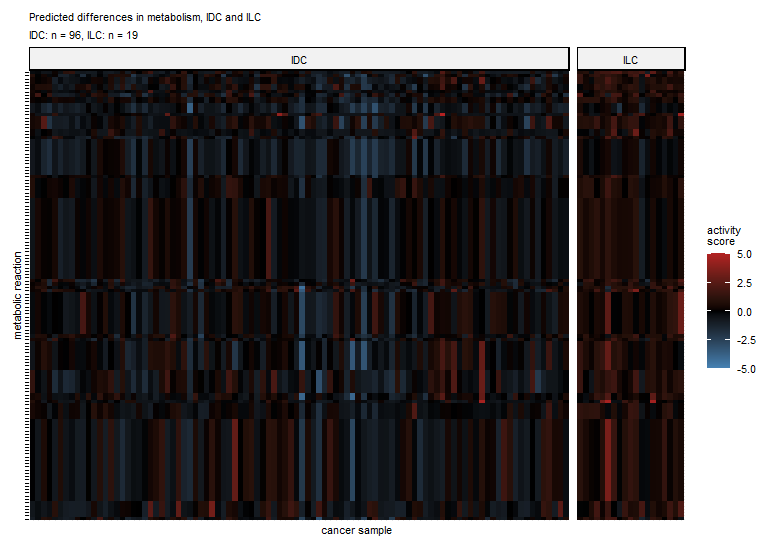
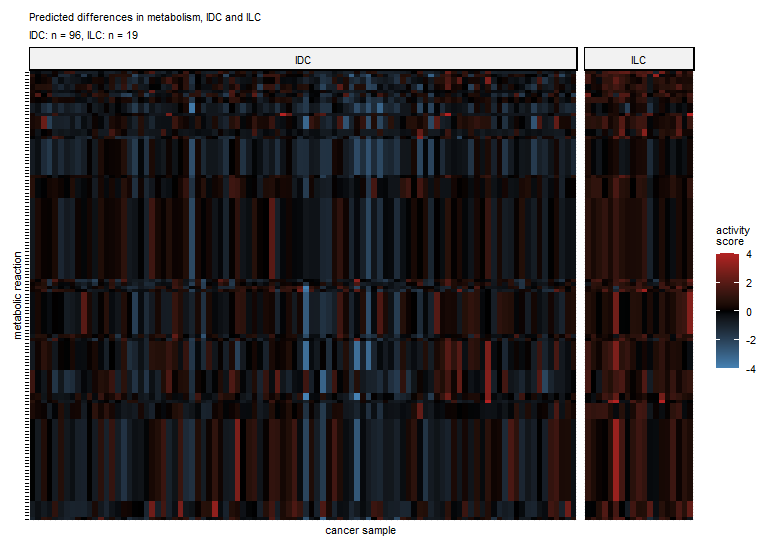
Second example of basic usage of the package

diff --git a/README.md b/README.md
@@ -560,6 +560,264 @@ per default indicated in the Y axis:
 
 ### Calculation of activity scores of metabolic reactions with gene expression data
 
+#### Analysis data
+
+In the second example, we'll use function `get_activity()` to compute activity scores of 
+metabolic reactions of the Recon 2.2. knowledge model given RNA sequencing data - 
+please note that they are not differential gene expression estimates handled in 
+the previous section! 
+
+In the example, we're going to use, apart from `biggrExtra` few other packages. 
+`tidyverse` package bundle will provide tools for transformation of tabular data, 
+[`microViz`](github.com/PiotrTymoszuk/microViz) provides the gene expression data 
+an plotting functions, [fastTest](https://github.com/PiotrTymoszuk/fastTest/) implements 
+statistical hypothesis tests, and [hgnc](https://github.com/patterninstitute/hgnc/) 
+will be use for conversion of gene symbols to Entrez identifiers (Entrez ID).
+
+```r
+
+  library(tidyverse)
+
+  library(microViz) ## data and plots
+  library(fastTest) ## statistical hypothesis tests
+  library(hgnc) ## gene symbol - Entrez ID conversion
+
+  library(biggrExtra)
+
+```
+
+The gene expression data comes as `brca` data set with `microViz` package. 
+Gene expression variables in this data frame are named with official gene symbols 
+which will be turned to Entrez IDs.
+The expression signals on an identity scale will be transformed with $log_2$ function 
+and subsequently converted to Z-scores (function `zScores` from `microViz` package) 
+used to calculate reactions' activities: 
+
+```r
+
+ ## annotation of gene symbols with Entrez IDs:
+  ## a data frame and a named vector used to convert
+  ## names of the gene expression data
+
+  hgnc_annotation <- import_hgnc_dataset() %>%
+    select(symbol, entrez_id) %>%
+    filter(complete.cases(.))
+
+  hgnc_entrez_vector <- set_names(hgnc_annotation$entrez_id,
+                                  hgnc_annotation$symbol)
+
+  ## selection of genes, re-naming with EntrezIDs,
+  ## log2 transformation of the expression data
+
+  brca_data <- brca_data %>%
+    column_to_rownames("sample_id") %>%
+    select(any_of(hgnc_annotation$symbol))
+
+  names(brca_data) <- hgnc_entrez_vector[names(brca_data)]
+
+  brca_data <-
+    log2(as.matrix(brca_data) + 1) %>%
+    as.data.frame
+
+  ## Z-scores used for calculation of the reaction activity scores
+
+  brca_z_scores <- zScores(brca_data)
+
+```
+
+```r
+
+> brca_z_scores[1:10, 1:5]
+                                                  1      503538      29974          2      144571
+MBC-MBCProject_GvHkH2Hk-Tumor-SM-AZ5HV   0.91776430  2.04386562 -0.3486670  0.2894184 -0.62886304
+MBC-MBCProject_N4srsKsr-Tumor-SM-CGMGK   1.01208902  0.38140127 -0.3486670  0.6438838  0.61464010
+MBC-MBCProject_N4srsKsr-Tumor-SM-CGLTK   0.85115081 -0.94149510 -0.1066801 -0.6819644  0.32245867
+MBC-MBCProject_4MF1FlFQ-Tumor-SM-CGM4M   0.48329068  1.27063624 -0.2537039 -1.2351579 -0.56352870
+MBC-MBCProject_4MF1FlFQ-Tumor-SM-AZ5CU   0.34291247 -0.70928909 -0.3324544  0.3481451 -0.83224107
+MBC-MBCProject_wAiri7fp-Tumor-SM-AZ5DH   0.20610103  0.07184055 -0.3324544  0.9246825 -0.46768283
+MBC-MBCProject_K7f6fdUz-Tumor-SM-AZ5MA   3.83486896  2.24056095  4.8715174  0.5529890 -0.49935079
+RP-1156_MBCProject_3vhkhAcY_T1_v2_Exome  0.53749425 -0.91744052 -0.3650410 -0.3722746 -0.97445372
+MBC-MBCProject_xBfJfri9-Tumor-SM-CGLAP  -0.08864884  1.15366347 -0.3324544 -1.1186011 -0.53129776
+MBC-MBCProject_xBfJfri9-Tumor-SM-CGLGZ   0.04991536 -0.70928909 -0.3650410  1.5080102 -0.02313201
+
+```
+For calculation of reaction activity scores we also need a database of gene - reaction 
+association rules as R language object. 
+We can generate it easily by calling `as_reactDB()` for the `Recon2_2D` data frame 
+delivered with our `biggrExtra` package. 
+The reaction database can be created by calling `as_reactDB()` for it: 
+
+```r 
+
+ recon2_2_db <- as_reactDB(Recon2_2D)
+
+```
+```r
+
+> recon2_2_db
+
+`reactDB` object with 7785 reactions and 4742 gene - reaction association rules
+
+# A tibble: 7,785 × 6
+   id                name                                                    subsystem         gene_association entrez_id exprs     
+ * <chr>             <chr>                                                   <chr>             <chr>            <list>    <named li>
+ 1 R_13DAMPPOX       1,3-Diaminopropane:oxygen oxidoreductase (deaminating)  beta-Alanine met… 314 or 8639 or … <chr [3]> <language>
+ 2 R_1a_24_25VITD2Hm 1-alpha-Vitamin D-24,25-hydroxylase (D2)                Vitamin D metabo… NA               <NULL>    <NULL>    
+ 3 R_1a_24_25VITD3Hm 1-alpha-Vitamin D-24,25-hydroxylase (D3)                Vitamin D metabo… NA               <NULL>    <NULL>    
+ 4 R_1a_25VITD2Hm    1-alpha,24R,25-Vitamin D-hydroxylase (D2)               Vitamin D metabo… NA               <NULL>    <NULL>    
+ 5 R_1a_25VITD3Hm    1-alpha,24R,25-Vitamin D-hydroxylase (D3)               Vitamin D metabo… NA               <NULL>    <NULL>    
+ 6 R_1PPDCRp         delta1-piperideine-2-carboxylate reductase, perixosomal Lysine metabolism NA               <NULL>    <NULL>    
+ 7 R_24_25VITD2Hm    24R-Vitamin D-25-hydroxylase (D2)                       Vitamin D metabo… 1591             <chr [1]> <sym>     
+ 8 R_24_25VITD3Hm    24R-Vitamin D-25-hydroxylase (D3)                       Vitamin D metabo… 1591             <chr [1]> <sym>     
+ 9 R_25VITD2Hm       1-alpha-Vitamin D-25-hydroxylase (D2)                   Vitamin D metabo… 1594             <chr [1]> <sym>     
+10 R_25VITD3Hm       1-alpha-Vitamin D-25-hydroxylase (D3)                   Vitamin D metabo… 1594             <chr [1]> <sym>     
+# ℹ 7,775 more rows
+# ℹ Use `print(n = ...)` to see more rows
+
+```
+
+#### Calculation of reaction activity scores
+
+Scores of activity of reactions are obtained with `get_activity()` which we provide with 
+expression Z-scores (data frame: samples in rows, genes in columns) 
+and the reaction database object. 
+If `as_data_frame = TRUE`, the function returns a data frame, whose first column 
+named `sample_id` stores sample identifiers, the remaining columns are named after 
+reaction identifiers and are filled with activity scores: 
+
+```r
+
+  brca_activity_scores <-
+    get_activity(x = brca_z_scores,
+                 database = recon2_2_db,
+                 as_data_frame = TRUE)
+
+  reaction_variables <- names(brca_activity_scores)[-1] ### to be used later in tests
+
+```
+
+Subsequently, we'll append the data frame of activity scores with information 
+on tumor histology used later in statistical hypothesis tests: 
+
+```r
+
+  ## appending the activity scores with clinical meta-data
+
+  brca_activity_scores <-
+    inner_join(brca[, c("sample_id",
+                        "histology")],
+               brca_activity_scores,
+               by = "sample_id")
+
+```
+
+```r
+
+> brca_activity_scores
+
+# A tibble: 157 × 4,744
+   sample_id  histology R_13DAMPPOX R_24_25VITD2Hm R_24_25VITD3Hm R_25VITD2Hm R_25VITD3Hm R_2AMACHYD R_2AMACSULT  R_2HBO R_2OXOADOXm
+   <chr>      <fct>           <dbl>          <dbl>          <dbl>       <dbl>       <dbl>      <dbl>       <dbl>   <dbl>       <dbl>
+ 1 MBC-MBCPr… IDC            0.0622        -0.0605        -0.0605      0.999       0.999      0.647       0.855  -0.377      -1.03  
+ 2 MBC-MBCPr… MIXED_ID…     -0.356         -0.271         -0.271       0.145       0.145     -0.777       0.790  -0.488       0.418 
+ 3 MBC-MBCPr… ILC           -0.425         -0.562         -0.562      -0.371      -0.371     -1.39        0.646  -0.507       0.420 
+ 4 MBC-MBCPr… IDC           -0.684          0.0171         0.0171      1.89        1.89       0.196       0.440  -0.271      -0.0367
+ 5 MBC-MBCPr… IDC           -0.0510        -0.114         -0.114       0.0789      0.0789    -0.352      -0.354   0.310      -0.186 
+ 6 MBC-MBCPr… IDC           -0.0660        -0.316         -0.316      -0.766      -0.766     -0.0702      1.14    0.162      -0.346 
+ 7 MBC-MBCPr… CARCINOMA     -0.409         -0.493         -0.493       0.288       0.288      1.14        0.0103  0.465       0.849 
+ 8 RP-1156_M… IDC           -0.598         -0.562         -0.562       0.225       0.225      2.23        0.332  -0.794      -1.81  
+ 9 MBC-MBCPr… IDC           -0.654         -0.411         -0.411      -0.313      -0.313     -0.0143      0.575  -0.180      -0.892 
+10 MBC-MBCPr… IDC            0.0673        -0.184         -0.184      -0.572      -0.572     -0.384       0.475  -0.0244      0.0241
+# ℹ 147 more rows
+# ℹ 4,733 more variables: R_34DHOXPEGOX <dbl>, R_34DHPHAMT <dbl>, R_34DHPLACOX <dbl>, R_34DHPLACOX_NADP_ <dbl>,
+#   R_34DHXMANDACOX <dbl>, R_34DHXMANDACOX_NADP_ <dbl>, R_34HPPOR <dbl>, R_3DSPHR <dbl>, R_3HAO <dbl>, R_3HBCDm <dbl>,
+#   R_3HKYNAKGAT <dbl>, R_3HLYTCL <dbl>, R_3HPCOAHYD <dbl>, R_3HXKYNDCL <dbl>, R_3HXKYNOXDA <dbl>, R_3M4HDXPAC <dbl>,
+#   R_3MOX4HOXPGALDOX <dbl>, R_3MOX4HOXPGALDOX_NADP_ <dbl>, R_3MOXTYROX <dbl>, R_3NTD7l <dbl>, R_3SALACBOXL <dbl>,
+#   R_3SALATAi <dbl>, R_3SALATAim <dbl>, R_41R1H2MAE12BOOX <dbl>, R_41R2A1H12BOOX <dbl>, R_42A12BOOX <dbl>, R_4HGLSDm <dbl>,
+#   R_4HOXPACDOX_NADP_ <dbl>, R_4NPHSULT <dbl>, R_5ADTSTSTERONESULT <dbl>, R_5HLTDL <dbl>, R_5HOXINDACTO2OX <dbl>, …
+# ℹ Use `print(n = ...)` to see more rows, and `colnames()` to see all variable names
+
+```
+
+#### Comparing reaction activity scores 
+
+Reaction activity scores can be compared between analysis groups of interest by a 
+range of statistical hypothesis test. 
+In our example, we'll compare the activity scores between two clinically relevant 
+histological types of breast cancer, invasive ductal carcinoma (IDC) and invasive 
+luminal carcinoma (ILC), with Mann-Whitney test with biserial rank correlation coefficient 
+r as the effect size metric. 
+The tests will be conducted with function `f_wilcox_test` from `fastTest` package, 
+p-values will be corrected for multiple testing with the false discovery rate method: 
+
+```r
+
+  ## differences in activity scores between IDC and ILC
+  ## Mann-Whitney test
+
+  brca_test_data <- brca_activity_scores %>%
+    filter(histology %in% c("IDC", "ILC"))
+
+  brca_histology_test <-
+    f_wilcox_test(brca_test_data[, reaction_variables],
+                  f = brca_test_data$histology,
+                  as_data_frame = TRUE,
+                  safely = TRUE,
+                  adj_method = "BH") %>%
+    as_tibble
+
+```
+
+We'll define significant differences in reaction activity scores by 
+FDR-corrected p < 0.05 and large effect size of the difference, i.e. $|r| \geq 0.5$: 
+
+```r
+
+  ## significant differences in activity scores:
+  ## pFDR < 0.05 and large (abs(r) > 0.5)
+
+  brca_histology_significant <- brca_histology_test %>%
+    filter(p_adjusted < 0.05,
+           abs(biserial_r) >= 0.5) %>%
+    .$variable
+
+```
+
+```r
+
+> length(brca_histology_significant)
+[1] 138
+
+> brca_histology_significant[1:10]
+ [1] "R_ACCOALm" "R_ACSm"    "R_ATPH1e"  "R_ATPH2e"  "R_BTND1"   "R_BTND1n"  "R_BTNDe"   "R_BTNDm"   "R_CSNAT2m" "R_CSNAT2x"
+
+```
+Finally, we can visualize activity scores of the significant reactions in a heat map 
+using function `heat_map()` from `microViz` package: 
+
+```r
+
+  ## visualization of the activity score in histological
+  ## subtypes in a heat map
+
+  brca_histo_heat_map <- brca_test_data %>%
+    heat_map(variables = brca_histology_significant,
+             split_fct = "histology",
+             normalize = FALSE,
+             midpoint = 0,
+             hide_x_axis_text = TRUE,
+             limits = c(-4, 4),
+             oob = scales::squish,
+             x_lab = "cancer sample",
+             y_lab = "metabolic reaction",
+             fill_lab = "activity\nscore",
+             plot_title = "Predicted differences in metabolism, IDC and ILC") +
+    theme(strip.background.y = element_blank(),
+          strip.text.y = element_blank(),
+          axis.text.y = element_blank())
+
+```
+
 
 ## References
 
